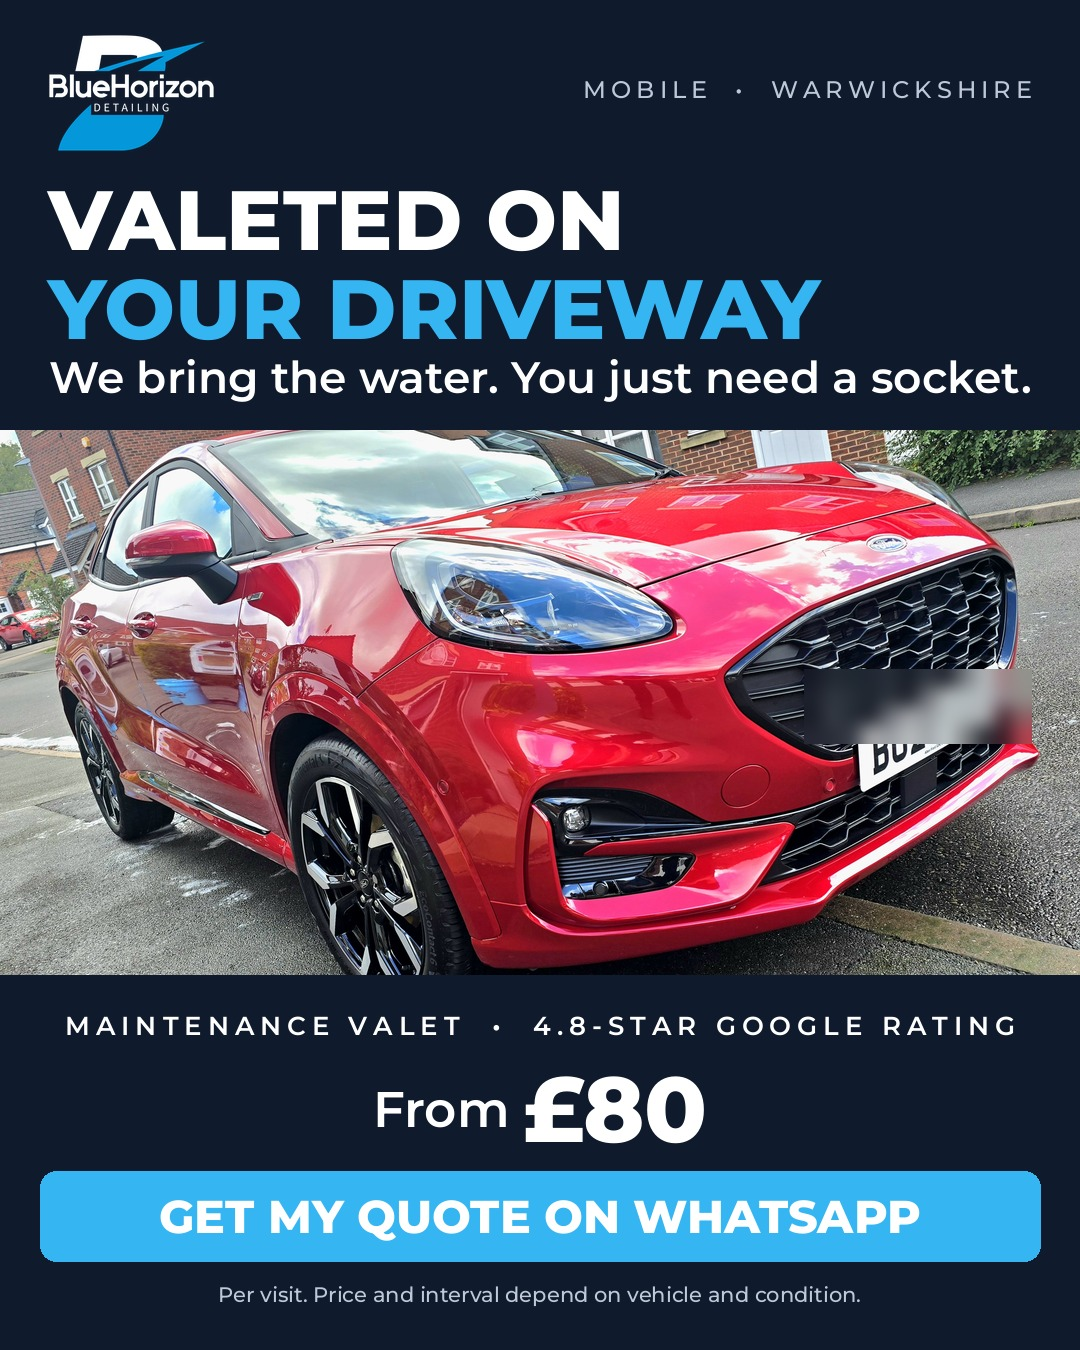
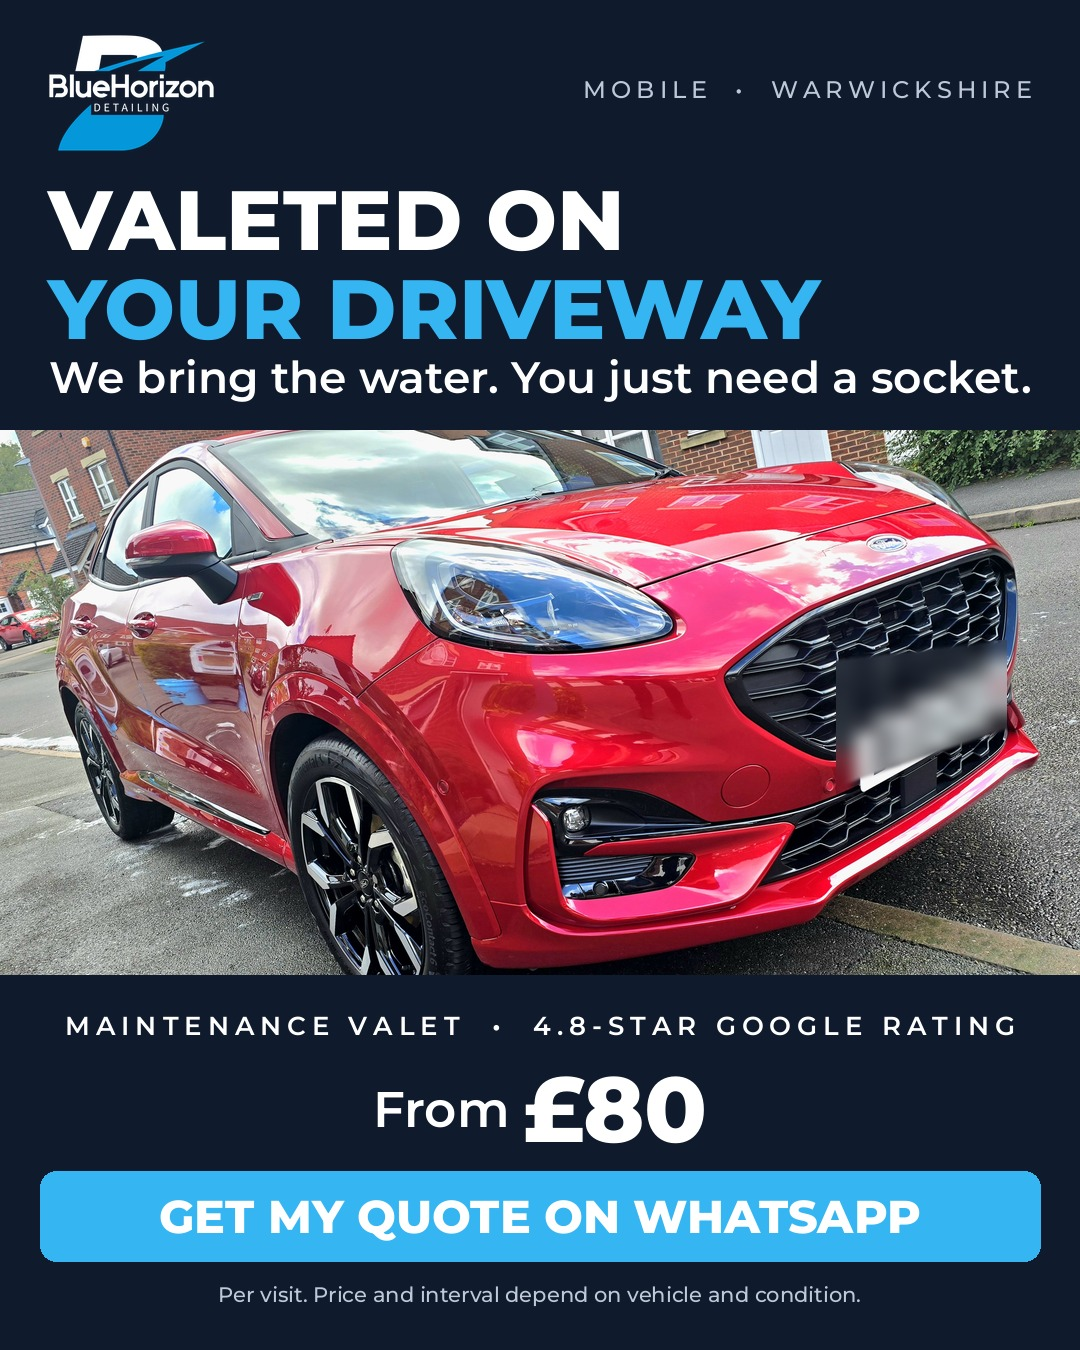
Creatives v4b: plate masks corrected on MV3/MV4/RC5/RC6
Claude-Session: https://claude.ai/code/session_01Wud2TYHmFGHpgYCbZsFq2u

Changed region(s): [[0.7333, 0.4667, 0.9778, 0.5911]]

diff --git a/campaigns/drafts/2026-10-static-whatsapp-all-services/plates.py b/campaigns/drafts/2026-10-static-whatsapp-all-services/plates.py
@@ -50,3 +50,34 @@ def apply(panel, polys):
         m=cv2.GaussianBlur(m,(0,0),1.5)[:,:,None]
         arr[y:y+h,x:x+w]=(pix*m+reg*(1-m)).astype(np.uint8)
     return Image.fromarray(arr[:,:,::-1])
+
+def find_plate_text(panel, box):
+    """Locate a plate by its characters: dark glyph blobs on a light background inside a loose region. Returns quad or None."""
+    W,H=panel.size
+    x0,y0,x1,y1=[int(v*s) for v,s in zip(box,(W,H,W,H))]
+    roi=np.array(panel.crop((x0,y0,x1,y1)))[:,:,::-1]
+    g=cv2.cvtColor(roi,cv2.COLOR_BGR2GRAY)
+    th=cv2.adaptiveThreshold(g,255,cv2.ADAPTIVE_THRESH_GAUSSIAN_C,cv2.THRESH_BINARY_INV,21,10)
+    n,lab,stats,_=cv2.connectedComponentsWithStats(th)
+    glyphs=[]
+    for s in stats[1:]:
+        x,y,w,h,a=s
+        if 8<=h<=70 and 2<=w<=50 and 0.15<=w/h<=1.1 and a>20:
+            # light background around?
+            glyphs.append((x,y,w,h))
+    if len(glyphs)<4: return None
+    # cluster glyphs by similar height and y
+    best=None
+    for gy in glyphs:
+        x,y,w,h=gy
+        grp=[g2 for g2 in glyphs if abs(g2[1]+g2[3]/2-(y+h/2))<h*0.6 and 0.6<g2[3]/h<1.6]
+        if len(grp)>=4:
+            xs=[g2[0] for g2 in grp]+[g2[0]+g2[2] for g2 in grp]; ys=[g2[1] for g2 in grp]+[g2[1]+g2[3] for g2 in grp]
+            width=max(xs)-min(xs); height=max(ys)-min(ys)
+            if 2.0<width/max(height,1)<9 and (best is None or len(grp)>best[0]): best=(len(grp),min(xs),min(ys),max(xs),max(ys))
+    if best is None: return None
+    _,bx0,by0,bx1,by1=best
+    padx=int((bx1-bx0)*0.12)+6; pady=int((by1-by0)*0.35)+6
+    pts=np.array([[bx0-padx,by0-pady],[bx1+padx,by0-pady],[bx1+padx,by1+pady],[bx0-padx,by1+pady]],dtype=np.int32)
+    pts[:,0]+=x0; pts[:,1]+=y0
+    return pts
